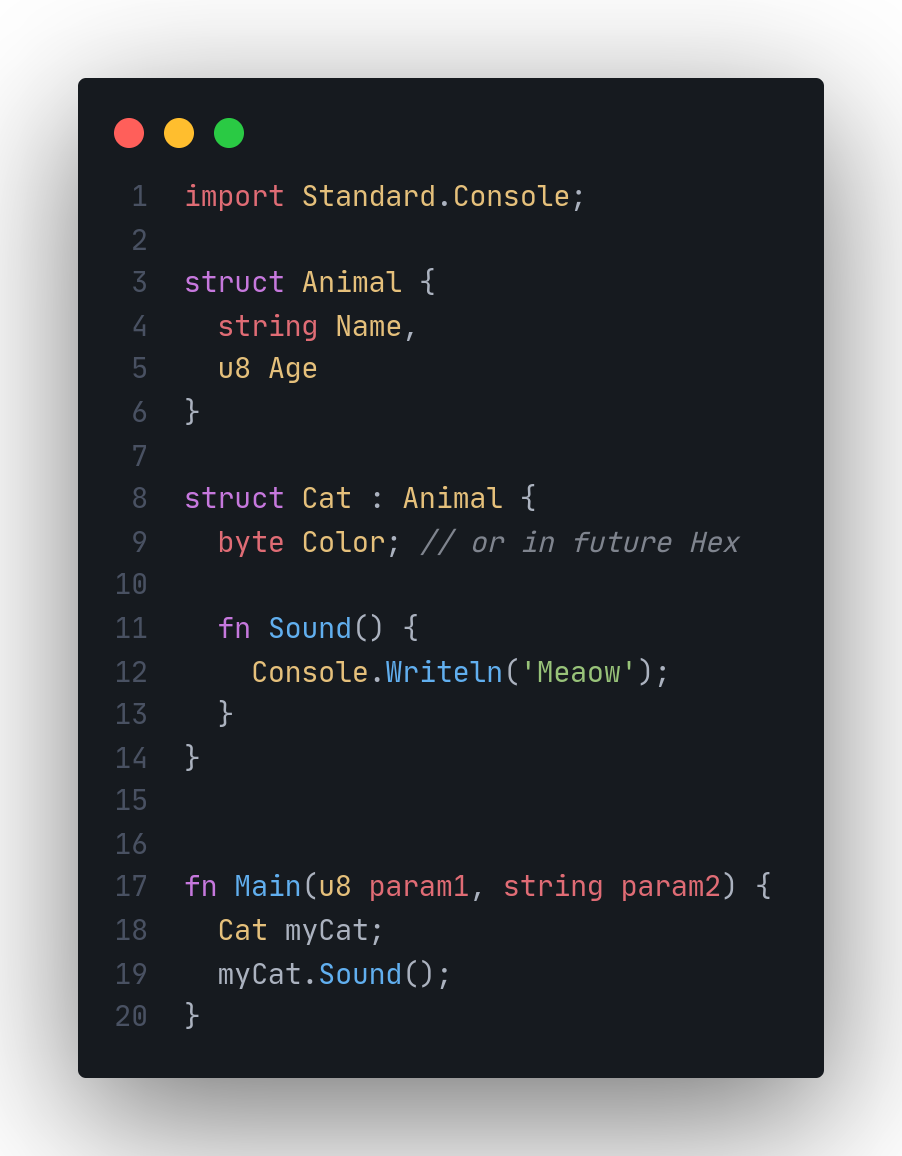
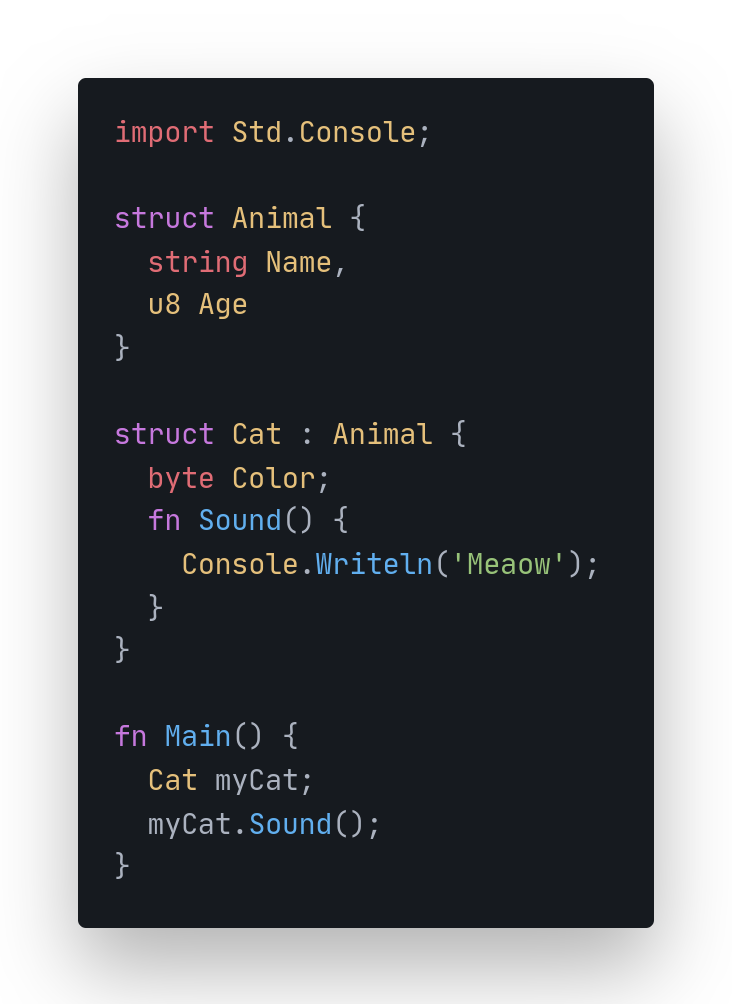
Fix code.png Bad Box-Shadow

diff --git a/examples/example.rs b/examples/example.rs
@@ -1,4 +1,4 @@
-import Standard.Console;
+import Std.Console;
 
 struct Animal {
   string Name,
@@ -6,15 +6,13 @@ struct Animal {
 }
 
 struct Cat : Animal {
-  byte Color; // or in future Hex
-
+  byte Color;
   fn Sound() {
     Console.Writeln('Meaow');
   }
 }
 
-
-fn Main(u8 param1, string param2) {
+fn Main() {
   Cat myCat;
   myCat.Sound();
 }
